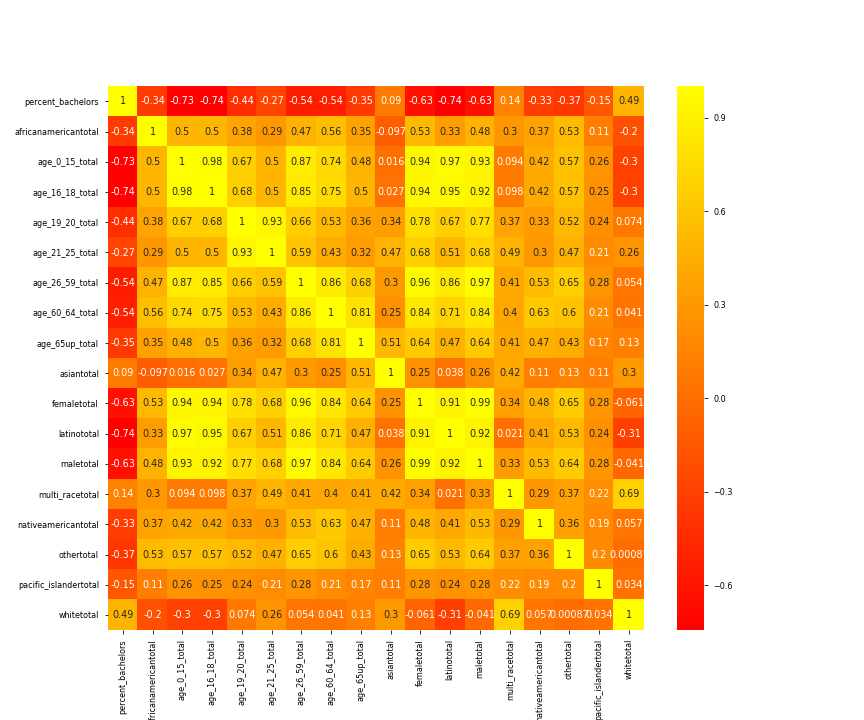
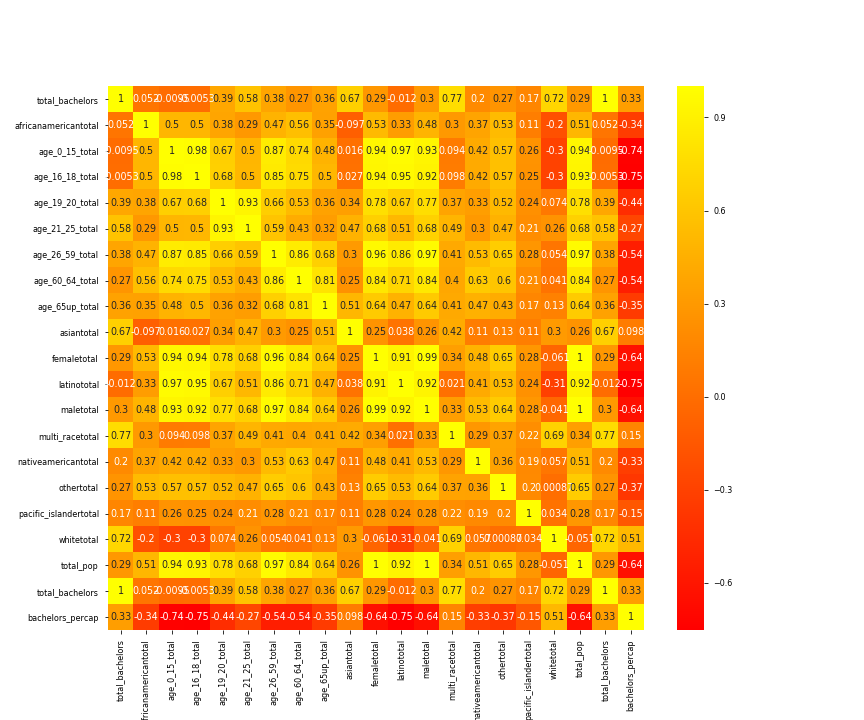
added plots

diff --git a/censu_plot.py b/censu_plot.py
@@ -4,8 +4,7 @@ Created on Wed Mar 14 23:05:05 2018
 
 @author: corey
 
-basic scatterplots of LA Census data
-
+Heat map and basic scatterplots of LA Census data
 
 """
 import pandas as pd
@@ -22,7 +21,7 @@ totals_df = df[['total_bachelors', 'africanamericantotal', 'age_0_15_total',
        'age_26_59_total', 'age_60_64_total', 'age_65up_total', 'asiantotal',
        'femaletotal', 'latinototal', 'maletotal', 'multi_racetotal',
        'nativeamericantotal', 'othertotal', 'pacific_islandertotal',
-       'whitetotal']]
+       'whitetotal', 'total_pop', 'total_bachelors', 'bachelors_percap']]
 
 plt.rcParams["figure.figsize"] = (12,10)
 sns.set_context('paper')
@@ -31,6 +30,13 @@ corr_map = sns.heatmap(totals_df.corr(),cmap='autumn', annot=True)
 fig = corr_map.get_figure()
 fig.savefig("census_corr_heatmap.png")
 
-plt.scatter(df['total_bachelors'], df[['femaletotal','maletotal']].sum(axis=1))
+plt.scatter(df['total_bachelors'], df['total_pop'])
+plt.title("total population vs total number of bachelors holders")
 plt.ylabel('total population')
 plt.xlabel('total_bachelors')
+plt.savefig('total_pop_bachelors_scatterplot.png')
+
+
+g = sns.PairGrid(totals_df)
+g.map_diag(sns.kdeplot)
+g.map_offdiag(sns.kdeplot, cmap="Blues_d", n_levels=6)
